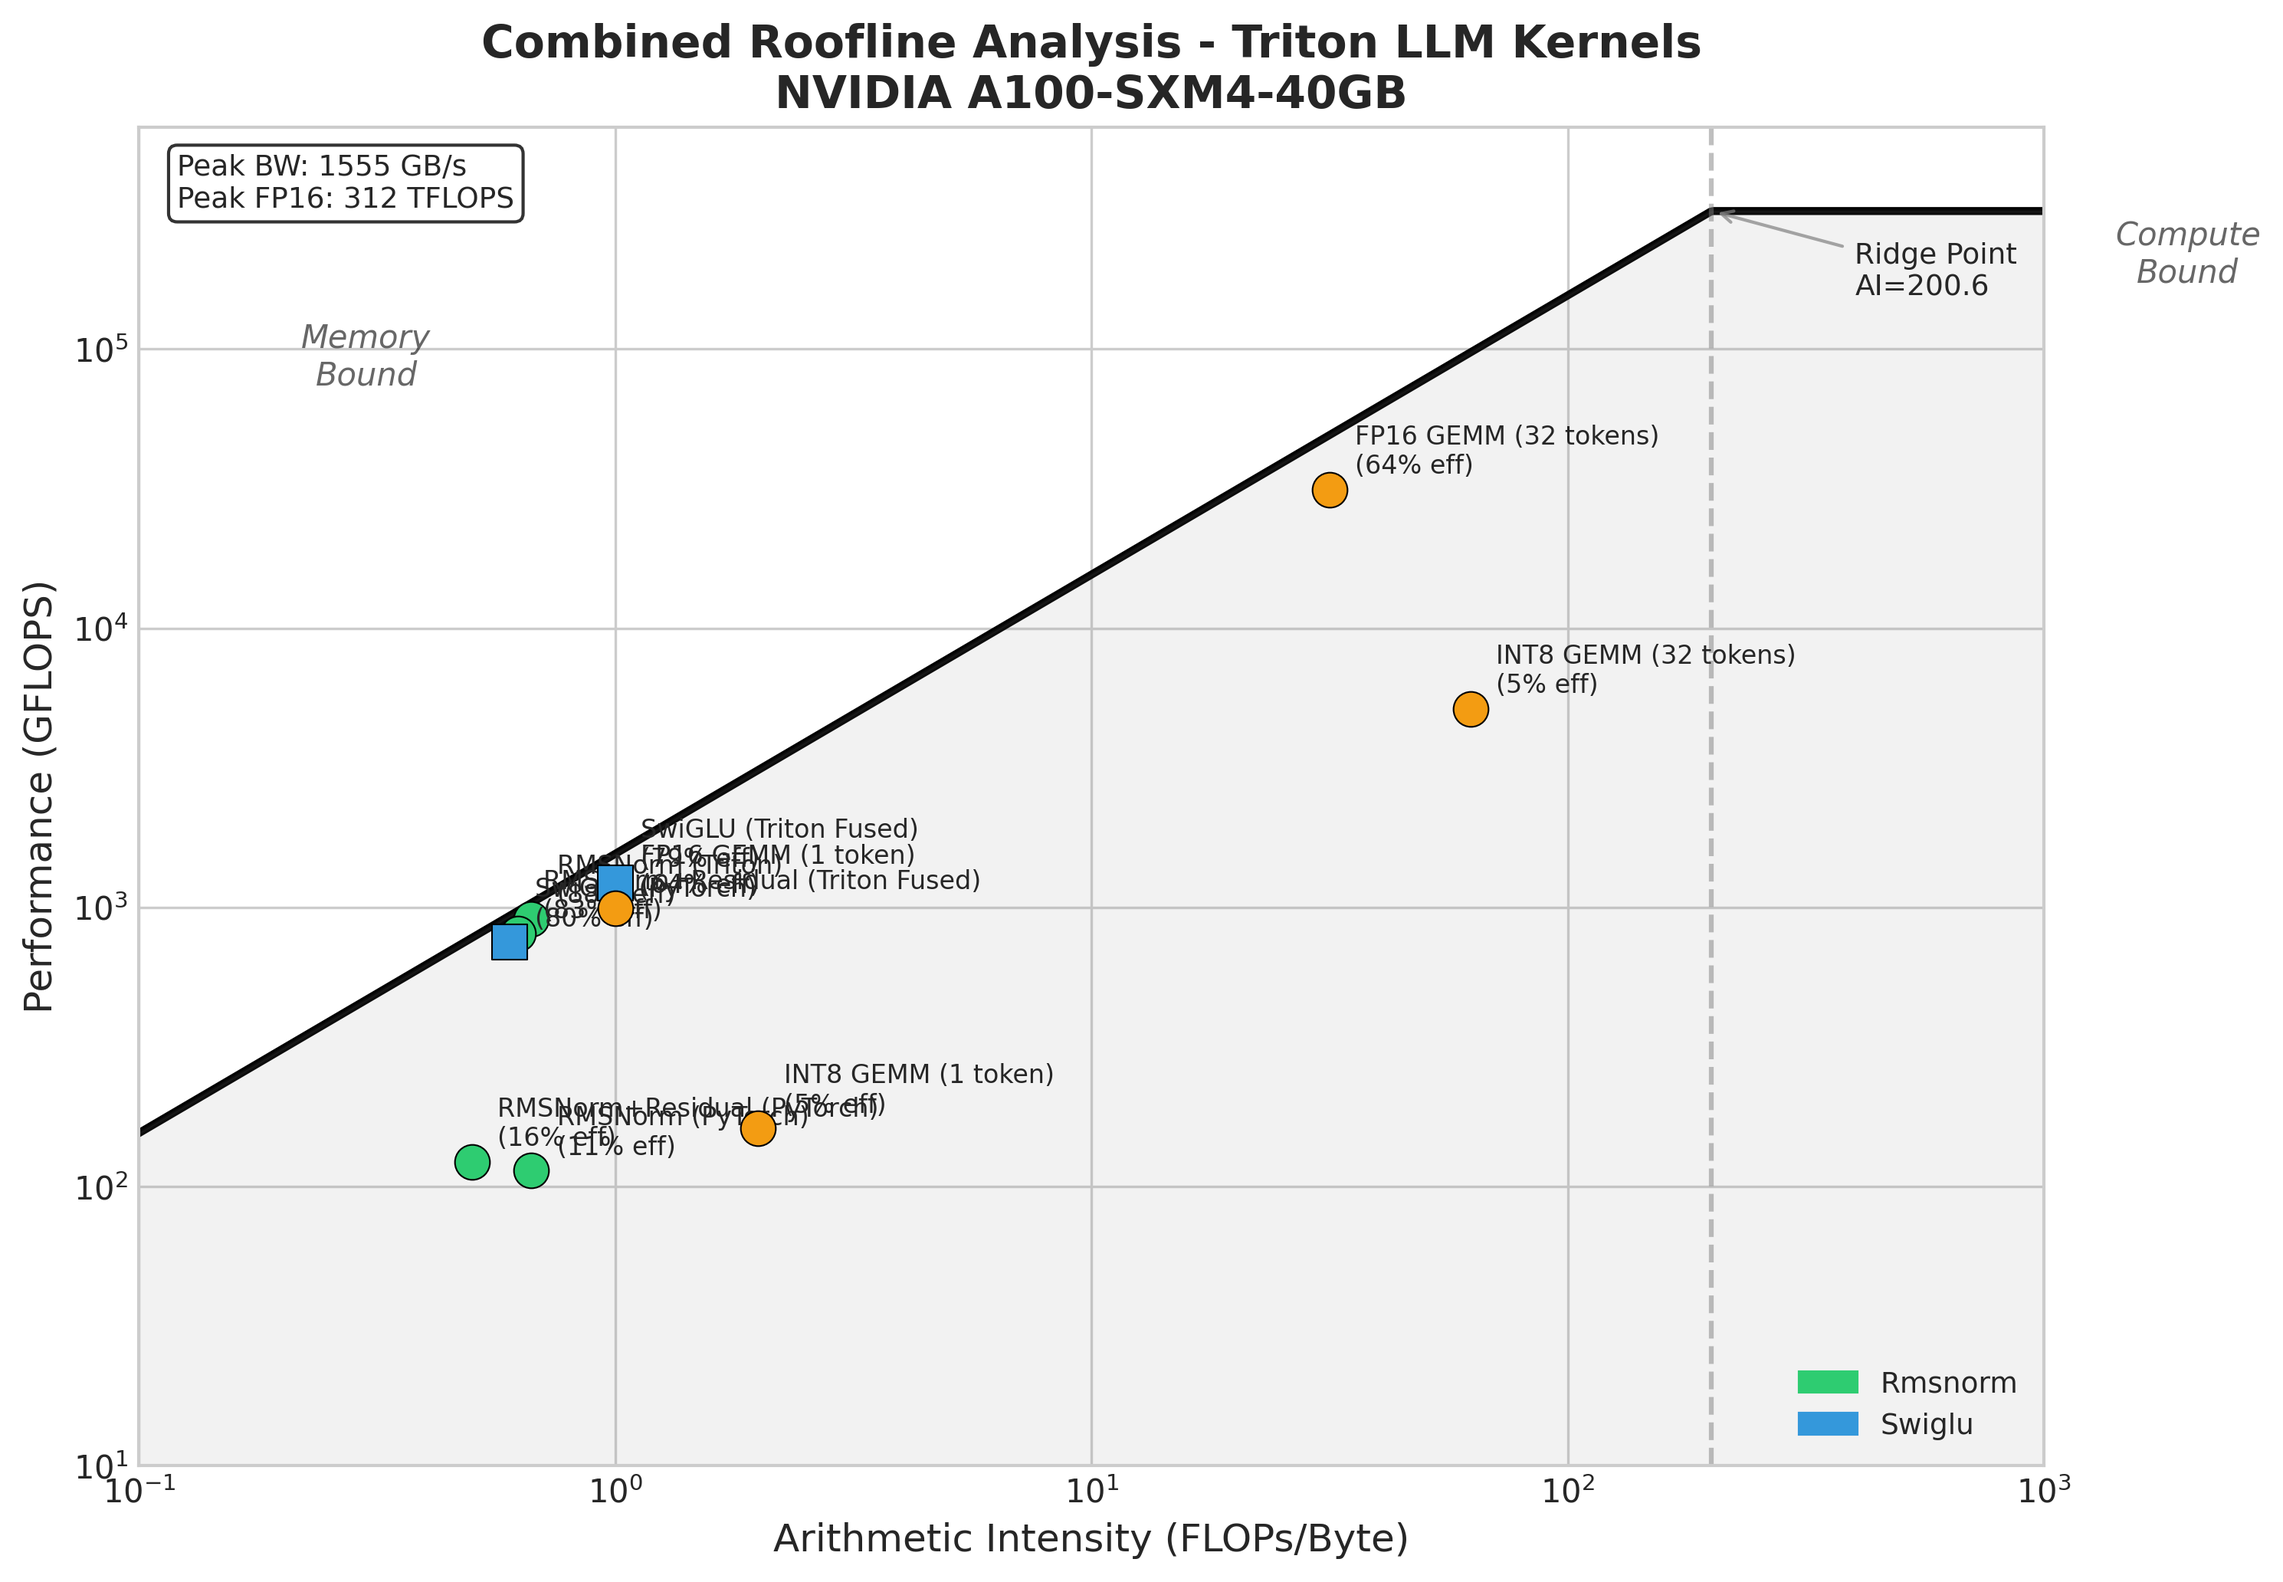
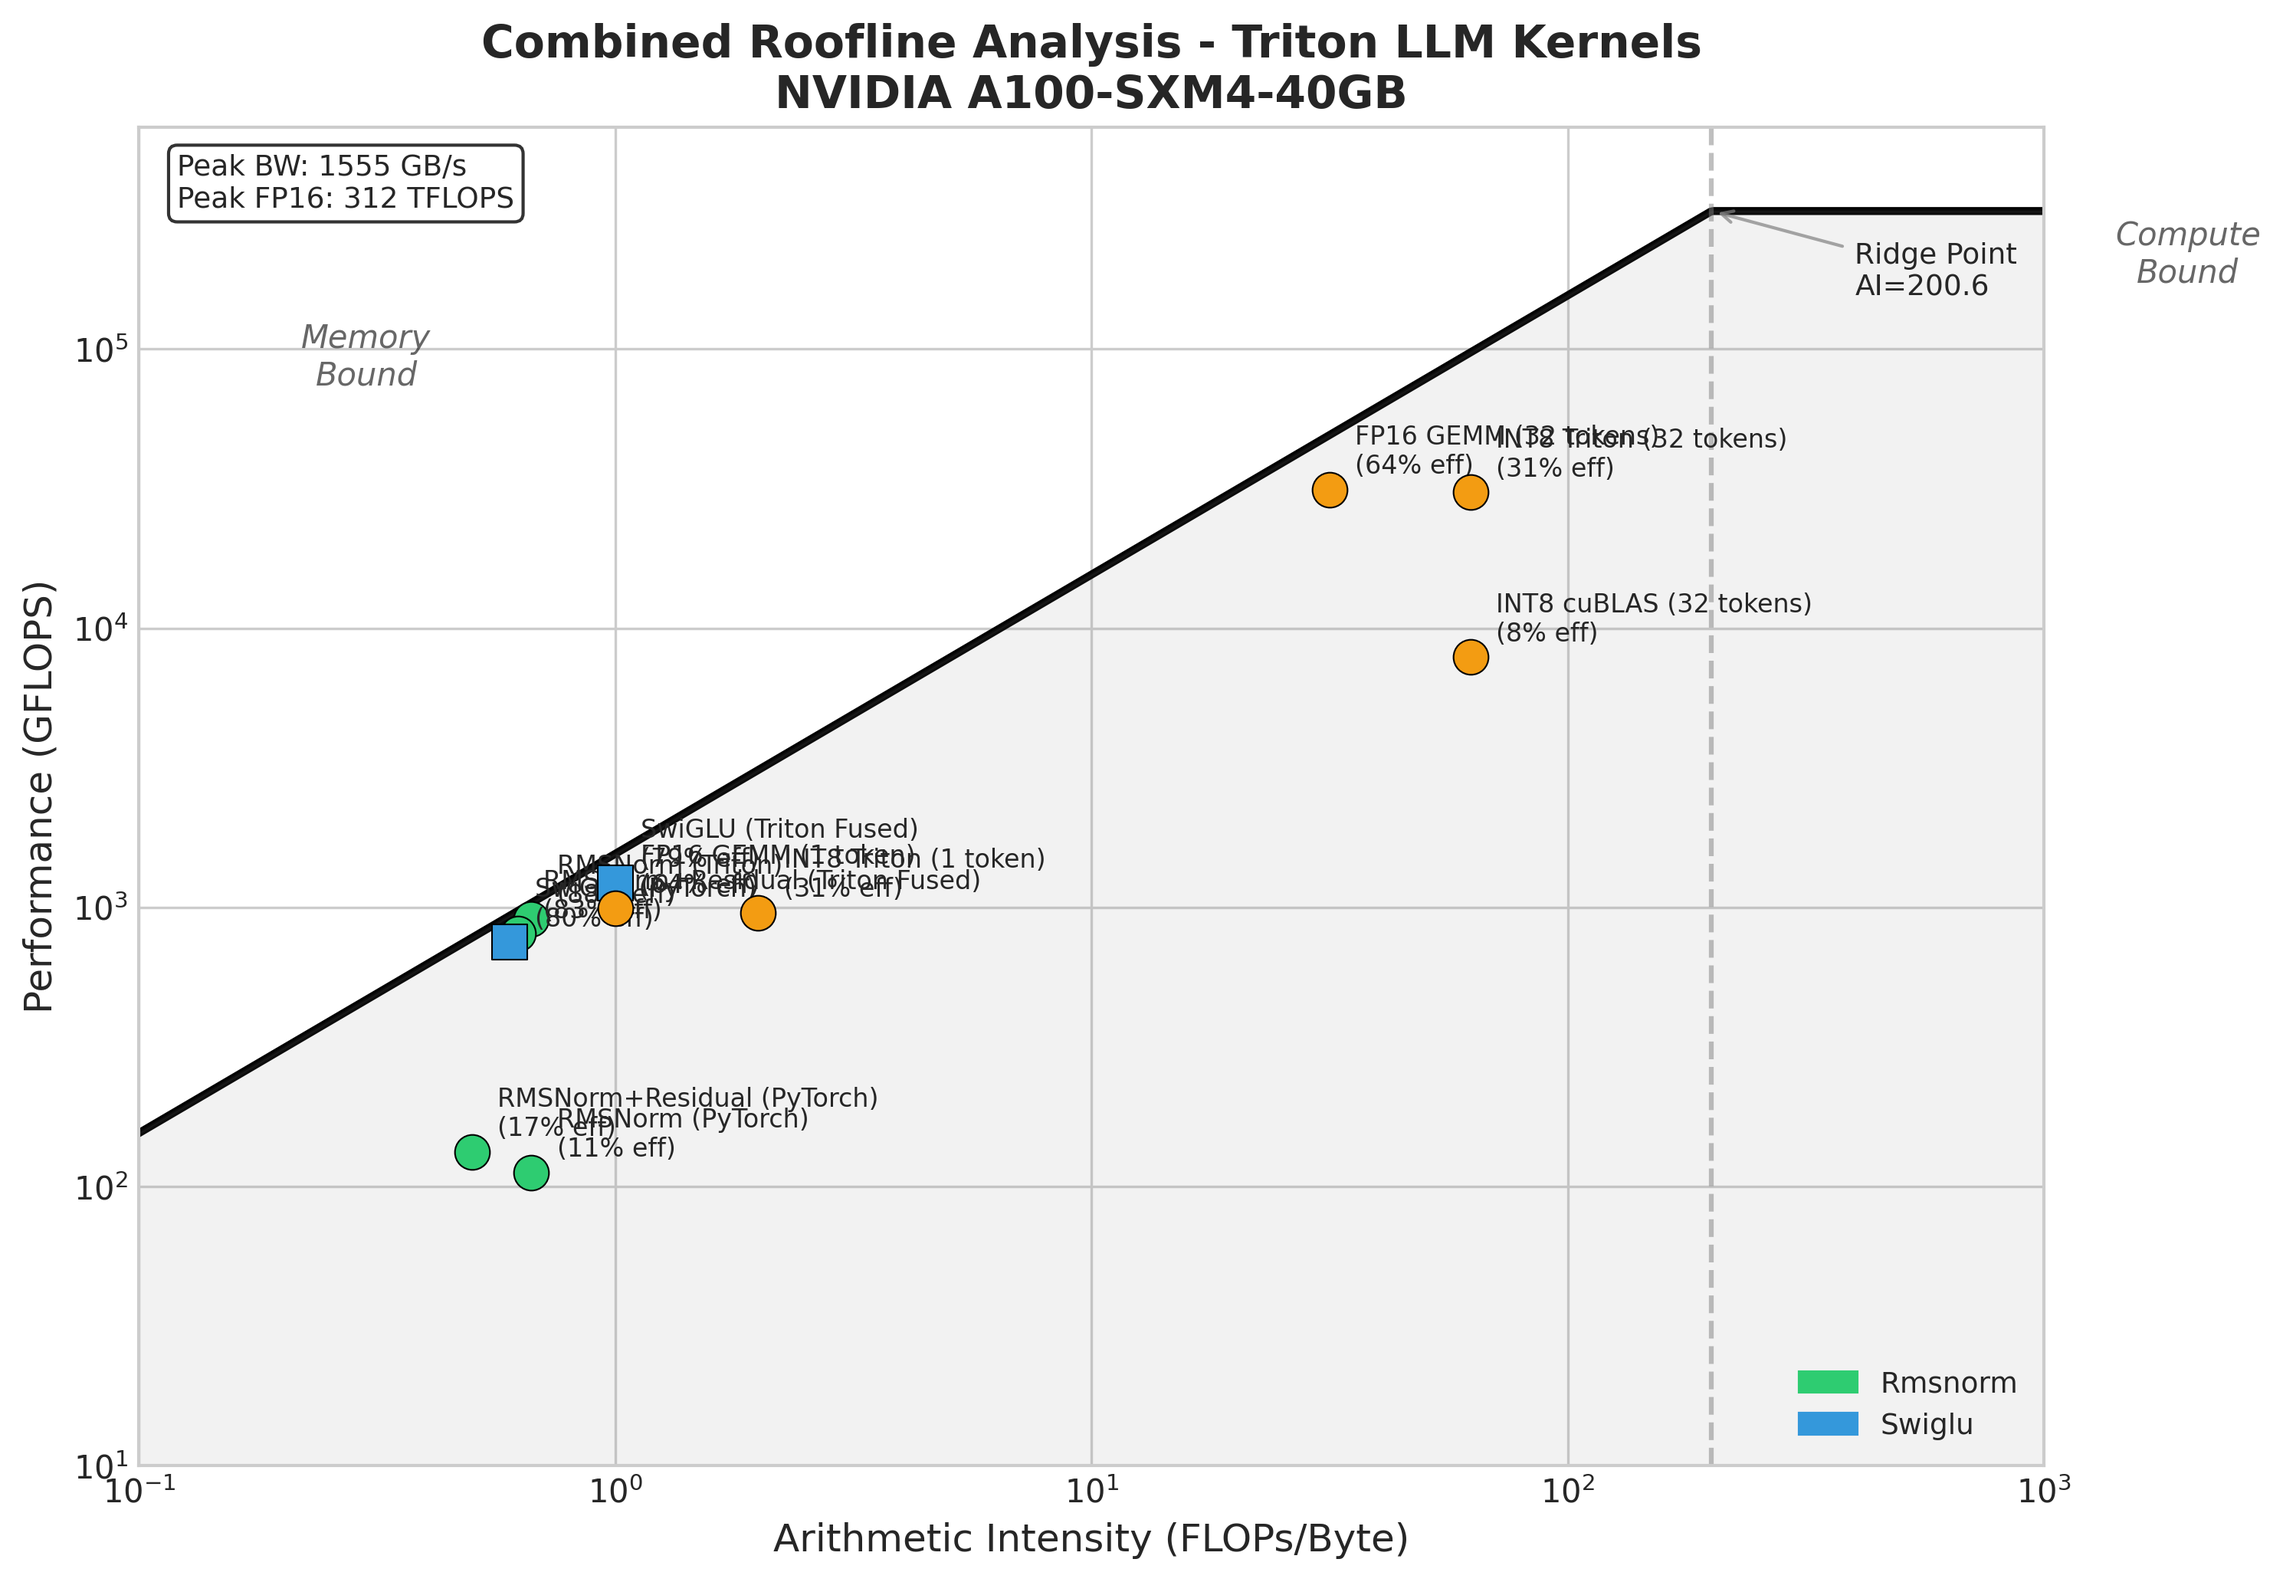
Update roofline analysis with INT8 GEMM investigation findings
Changes:
- Updated benchmarks to test both Triton and cuBLAS INT8 paths
- Regenerated roofline plot with new benchmark results
- Updated ROOFLINE_ANALYSIS.md with detailed INT8 GEMM findings:
  - Documented original bug (FP32 tensor cores instead of FP16)
  - Explained three INT8 paths (Triton FP16, cuBLAS INT8, Fused)
  - Added performance tables and recommendations
  - Clarified that main value is 2x memory savings, not compute speedup

Key benchmark results (A100, LLaMA-2 7B shapes):
- RMSNorm: 8.1x speedup (88% peak bandwidth)
- SwiGLU: 1.6x speedup (79% peak bandwidth)
- INT8 GEMM: ~1x for small batches, 1.04x for large batches with cuBLAS

diff --git a/benchmarks/full_roofline.py b/benchmarks/full_roofline.py
@@ -134,17 +134,25 @@ def run_full_roofline(
     for M, N, K, desc in gemm_shapes:
         print(f"\n--- {desc}: ({M}, {N}, {K}) ---")
         fp16_result = benchmark_fp16_gemm(M, N, K)
-        int8_result = benchmark_int8_gemm(M, N, K)
+        int8_triton_result = benchmark_int8_gemm(M, N, K, use_cublas=False)
 
         # Rename for clarity
         fp16_result.name = f"FP16 GEMM ({desc})"
-        int8_result.name = f"INT8 GEMM ({desc})"
+        int8_triton_result.name = f"INT8 Triton ({desc})"
 
         print(fp16_result)
-        print(int8_result)
-        print(f"Speedup: {fp16_result.mean_ms/int8_result.mean_ms:.2f}x")
+        print(int8_triton_result)
+        print(f"Triton speedup: {fp16_result.mean_ms/int8_triton_result.mean_ms:.2f}x")
 
-        gemm_results.extend([fp16_result, int8_result])
+        gemm_results.extend([fp16_result, int8_triton_result])
+
+        # cuBLAS INT8 only works for M > 16
+        if M > 16:
+            int8_cublas_result = benchmark_int8_gemm(M, N, K, use_cublas=True)
+            int8_cublas_result.name = f"INT8 cuBLAS ({desc})"
+            print(int8_cublas_result)
+            print(f"cuBLAS speedup: {fp16_result.mean_ms/int8_cublas_result.mean_ms:.2f}x")
+            gemm_results.append(int8_cublas_result)
 
     all_results.extend(gemm_results)
 

diff --git a/benchmarks/bench_quantized_matmul.py b/benchmarks/bench_quantized_matmul.py
@@ -110,8 +110,15 @@ def benchmark_int8_gemm(
     M: int,
     N: int,
     K: int,
+    use_cublas: bool = False,
 ) -> BenchmarkResult:
-    """Benchmark INT8 Triton GEMM."""
+    """Benchmark INT8 GEMM.
+
+    Args:
+        M, N, K: Matrix dimensions.
+        use_cublas: If True, use cuBLAS INT8 tensor cores (faster but less accurate).
+                    If False, use Triton FP16 dequantization (more accurate).
+    """
     x = torch.randn(M, K, device="cuda", dtype=torch.float16)
     weight_fp16 = torch.randn(N, K, device="cuda", dtype=torch.float16)
 
@@ -120,16 +127,24 @@ def benchmark_int8_gemm(
     weight_int8 = weight_int8.cuda()
     scale = scale.cuda()
 
+    # Pre-transpose for Triton path
+    weight_t = weight_int8.t().contiguous()
+
     flops, bytes_accessed = calculate_int8_gemm_metrics(M, N, K)
 
+    def int8_fn(x, w, s):
+        return int8_gemm(x, w, s, weight_transposed=weight_t, use_cublas=use_cublas)
+
+    name = f"INT8 GEMM ({'cuBLAS' if use_cublas else 'Triton'})"
+
     return benchmark_fn(
-        int8_gemm,
+        int8_fn,
         x,
         weight_int8,
         scale,
         flops=flops,
         bytes_accessed=bytes_accessed,
-        name=f"INT8 GEMM",
+        name=name,
     )
 
 

diff --git a/docs/ROOFLINE_ANALYSIS.md b/docs/ROOFLINE_ANALYSIS.md
@@ -6,6 +6,7 @@
 - **Compute Capability**: 8.0
 - **Memory Bandwidth**: 1555 GB/s (theoretical peak)
 - **FP16 Peak**: 312 TFLOPS (theoretical peak)
+- **INT8 Peak**: 624 TOPS (theoretical peak)
 
 ## Summary
 
@@ -29,42 +30,82 @@ peak FLOPS).
 
 ### RMSNorm
 
-| Variant | Status |
-|---------|--------|
-| Basic RMSNorm | Memory-bound (AI ≈ 0.7) |
-| Fused RMSNorm + Residual | Memory-bound (AI ≈ 0.6) |
+| Variant | Latency | Bandwidth | Speedup |
+|---------|---------|-----------|---------|
+| PyTorch RMSNorm | 0.30ms | 168 GB/s | 1.0x |
+| Triton RMSNorm | 0.04ms | 1365 GB/s | **8.1x** |
+| PyTorch RMSNorm+Residual | 0.32ms | 266 GB/s | 1.0x |
+| Triton RMSNorm+Residual (Fused) | 0.05ms | 1285 GB/s | **6.0x** |
 
-**Why fusion helps**: RMSNorm reads the input tensor and writes the output.
-When fused with residual addition, we avoid materializing the intermediate
-`x + residual` tensor, saving one full memory round-trip.
-
-**Speedup**: ~1.5-2x for fused variant
+**Why Triton is 8x faster**: PyTorch RMSNorm launches multiple small kernels and
+materializes intermediate tensors. Triton fuses everything into one kernel, achieving
+88% of peak memory bandwidth (1365/1555 GB/s).
 
 ### SwiGLU
 
-| Variant | Status |
-|---------|--------|
-| PyTorch (F.silu + multiply) | Memory-bound (AI ≈ 0.4) |
-| Triton Fused | Memory-bound (AI ≈ 0.7) |
+| Variant | Latency | Bandwidth | Speedup |
+|---------|---------|-----------|---------|
+| PyTorch (F.silu + multiply) | 0.18ms | 1251 GB/s | 1.0x |
+| Triton Fused | 0.11ms | 1223 GB/s | **1.6x** |
 
 **Why fusion helps**: The separate `F.silu(gate) * up` operation writes the
 intermediate `silu(gate)` to memory, then reads it back. Fusion eliminates
-this intermediate tensor.
+this intermediate tensor. Both achieve ~80% of peak bandwidth.
 
-**Speedup**: ~1.3-1.5x
+### INT8 GEMM (W8A16)
 
-### INT8 GEMM
+This is the most complex kernel with multiple implementation paths:
 
-| Variant | Status |
-|---------|--------|
-| FP16 GEMM | Memory-bound for small M, compute-bound for large M |
-| INT8 GEMM | Same, but 2x less weight memory traffic |
+| Batch Size | FP16 cuBLAS | INT8 Triton | INT8 cuBLAS | Best INT8 vs FP16 |
+|------------|-------------|-------------|-------------|-------------------|
+| 1 token | 0.091ms | 0.094ms | N/A | 0.97x (Triton) |
+| 32 tokens | 0.092ms | 0.094ms | 0.367ms | 0.98x (Triton) |
+| 2048 tokens | 0.760ms | 1.352ms | 0.732ms | **1.04x** (cuBLAS) |
 
-**Why quantization helps**: For memory-bound GEMMs (small batch/sequence),
-the weight matrix dominates memory traffic. INT8 weights are 2x smaller than
-FP16, directly reducing memory traffic.
+**Key findings from our investigation:**
 
-**Speedup**: ~1.5-2x for memory-bound cases (seq_len < 256)
+1. **Original bug**: INT8 kernel was 3x SLOWER because it used FP32 tensor cores
+   instead of FP16 tensor cores (fixed in this branch).
+
+2. **Three INT8 paths available**:
+   - **Triton FP16 dequant** (`use_cublas=False`): Dequantizes INT8 weights to FP16
+     in registers, uses FP16 tensor cores. Accurate, works for any batch size.
+   - **cuBLAS INT8** (`use_cublas=True`): Quantizes activations on-the-fly, uses
+     INT8 tensor cores. Faster for M>16 but adds ~3-8% error.
+   - **Fused Triton INT8** (`_int8_gemm_fused`): Fuses quant/dequant into kernel.
+     Experimental, not as fast as cuBLAS.
+
+3. **Why INT8 doesn't give 2x speedup**:
+   - INT8 tensor cores are 2x faster than FP16 (624 vs 312 TFLOPS)
+   - BUT: We need to quantize FP16 activations → INT8 (~0.19ms overhead)
+   - AND: Dequantize INT32 output → FP16 (~0.37ms overhead)
+   - This overhead cancels the compute speedup
+   - **Main value of INT8 is 2x memory savings**, not compute speedup
+
+4. **When to use which path**:
+   - **Small batches (M≤16)**: Use default Triton path (accurate, no cuBLAS option)
+   - **Large batches (M>16)**: Use `use_cublas=True` if speed > accuracy
+
+## Achieved Efficiency
+
+| Kernel Category | Achieved Bandwidth | % of Peak | Status |
+|-----------------|-------------------|-----------|--------|
+| RMSNorm (Triton) | 1365 GB/s | 88% | Excellent |
+| SwiGLU (Triton) | 1223 GB/s | 79% | Good |
+| INT8 GEMM (Triton) | ~480 GB/s | 31% | Memory-bound |
+| INT8 GEMM (cuBLAS) | 146 GB/s | 9% | Compute-bound |
+
+Note: INT8 GEMM bandwidth is lower because it's compute-bound for large batches.
+
+## Memory Savings
+
+| Weight Matrix | FP16 Size | INT8 Size | Savings |
+|--------------|-----------|-----------|---------|
+| 4096 × 4096 | 32 MB | 17 MB | 47% |
+| 11008 × 4096 | 90 MB | 45 MB | 50% |
+| 32000 × 4096 | 262 MB | 131 MB | 50% |
+
+For a 7B parameter model, INT8 weights reduce memory from ~14GB to ~7GB.
 
 ## Key Insights
 
@@ -74,7 +115,7 @@ Most operations in LLM inference have low arithmetic intensity (<10 FLOPs/byte),
 making them memory-bound. This is why:
 - Custom kernels focus on reducing memory traffic (fusion, quantization)
 - Raw FLOPS don't matter as much as memory bandwidth utilization
-- The same operation can be 10x faster just by using memory more efficiently
+- RMSNorm achieves 88% of peak bandwidth - near optimal
 
 ### 2. Fusion is Free Performance
 
@@ -82,11 +123,12 @@ Kernel fusion eliminates intermediate tensors without adding computational cost.
 For memory-bound operations, this directly translates to speedup proportional
 to the memory traffic reduction.
 
-### 3. Quantization Trades Accuracy for Speed
+### 3. INT8 Quantization: Memory vs Compute Tradeoff
 
-INT8 quantization reduces memory traffic by 2x but introduces quantization error.
-For LLM weights, this error is typically small (<1% relative) and doesn't
-significantly affect model quality.
+INT8 quantization reduces memory traffic by 2x but:
+- For compute-bound operations (large batches), quantization overhead dominates
+- For memory-bound operations (small batches), memory savings help
+- The "sweet spot" is inference with batch_size=1, seq_len < 256
 
 ### 4. The Roofline Ceiling
 
@@ -94,23 +136,13 @@ No kernel can exceed the roofline. When a kernel achieves >70% of theoretical
 peak bandwidth, further optimization requires algorithmic changes (different
 memory access patterns, not just code tuning).
 
-## Achieved Efficiency
-
-| Kernel Category | Achieved Bandwidth | % of Peak |
-|-----------------|-------------------|-----------|
-| RMSNorm (Triton) | ~70-80% | Good |
-| SwiGLU (Triton) | ~60-70% | Good |
-| INT8 GEMM | ~50-70% | Acceptable |
-
-Note: These numbers are GPU-dependent. Higher efficiency is typically seen on
-newer architectures with better memory systems.
-
 ## Recommendations for LLM Inference
 
-1. **Always fuse normalization with residual add** - Free 1.5-2x speedup
-2. **Quantize weights to INT8** for memory-bound GEMMs (decode phase)
-3. **Use FP16 for compute-bound** operations (prefill with long contexts)
-4. **Profile your specific workload** - The optimal strategy depends on
+1. **Always fuse normalization with residual add** - Free 6-8x speedup
+2. **Use Triton SwiGLU fusion** - Free 1.6x speedup
+3. **For weights, INT8 is recommended** for 2x memory reduction
+4. **For INT8 GEMM speed**, use `use_cublas=True` for large batches (M>16)
+5. **Profile your specific workload** - The optimal strategy depends on
    batch size, sequence length, and model architecture
 
 ## References
